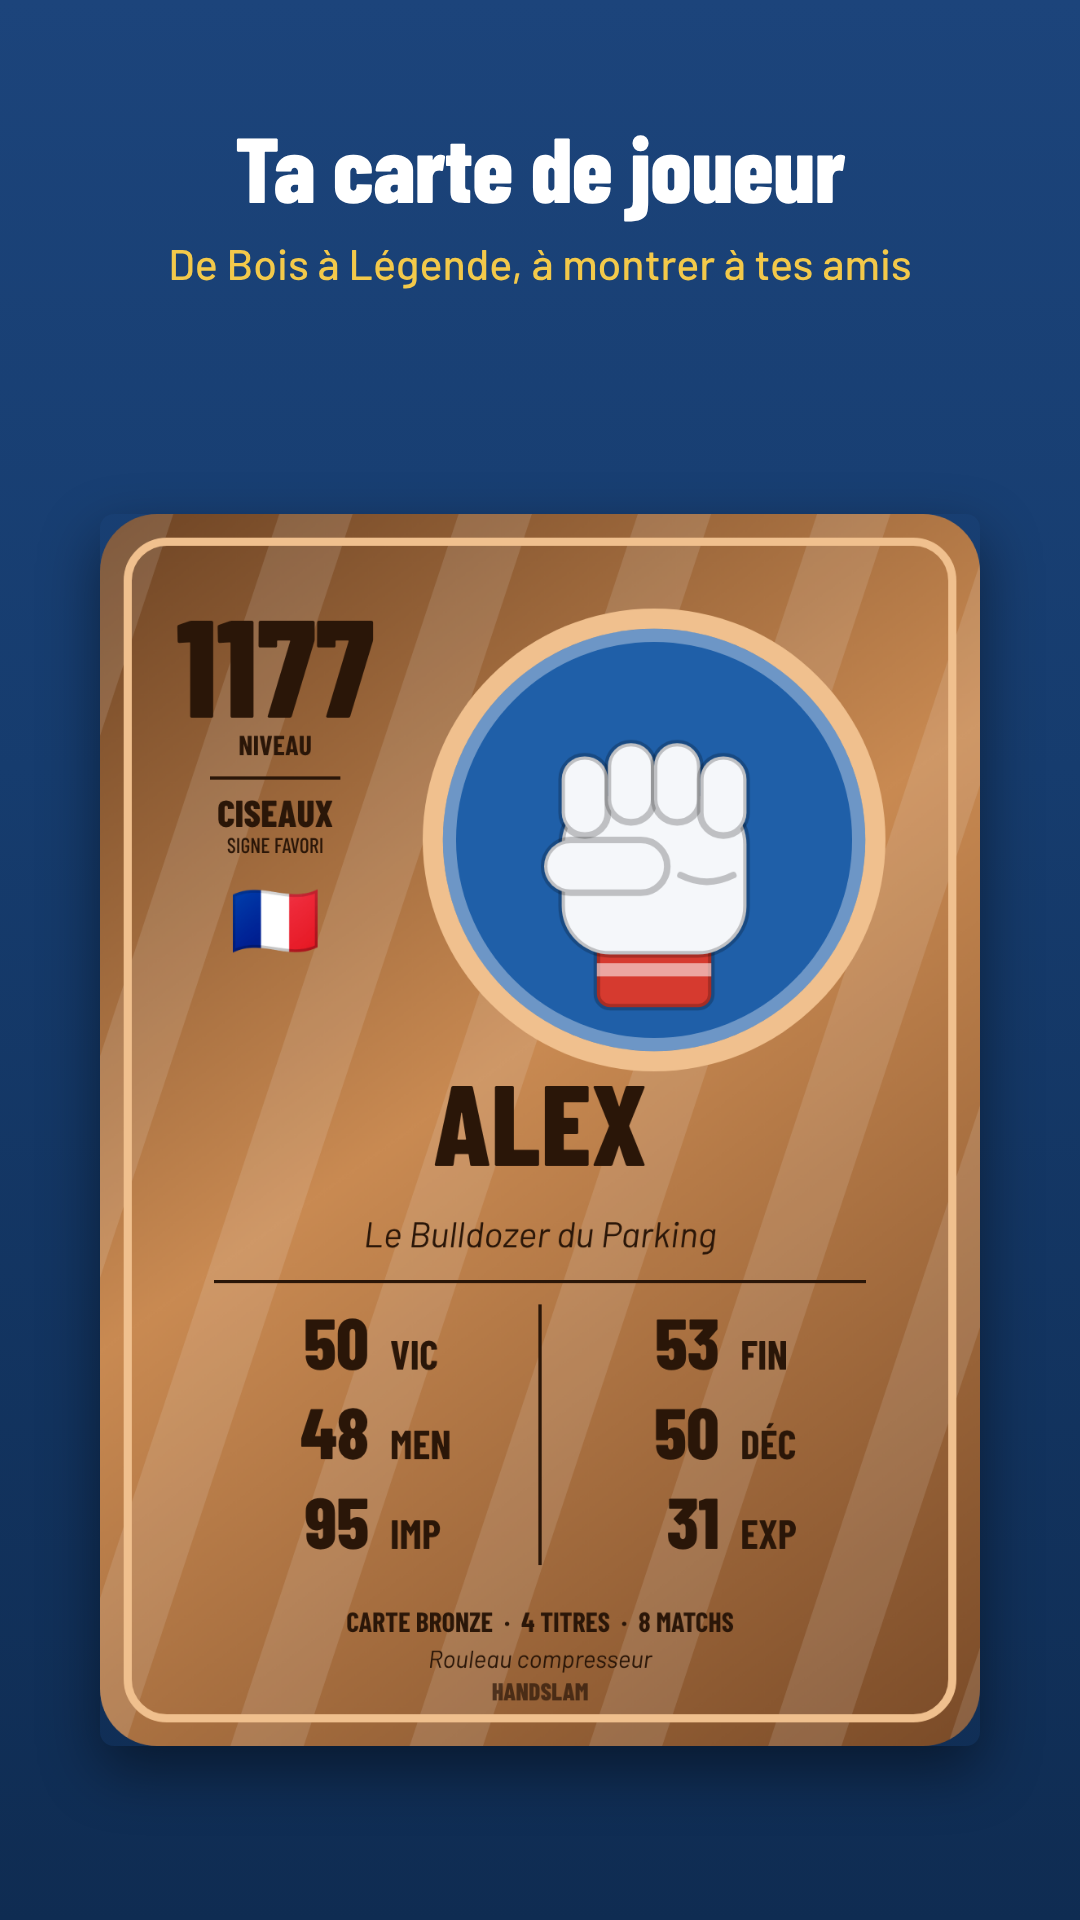
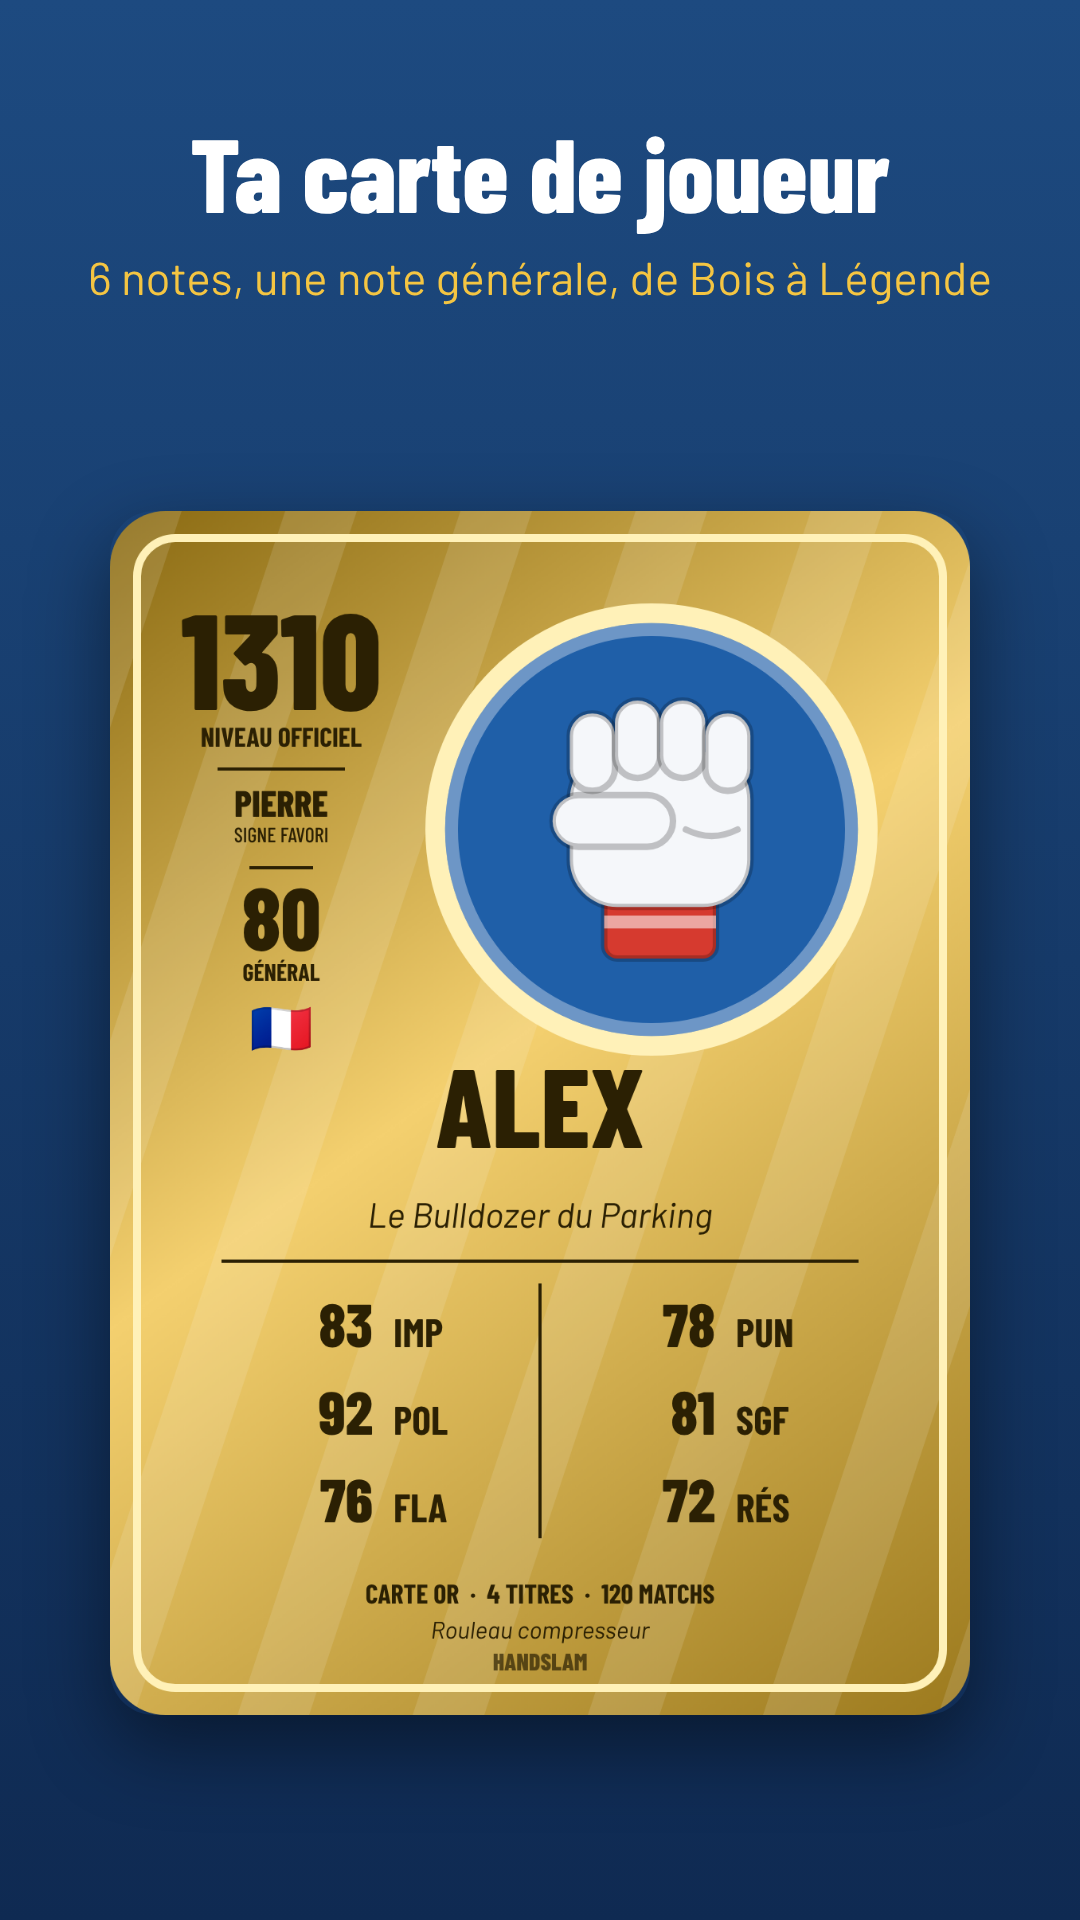
Lancement : l'écran titre avec l'hymne, le cœur qui bat et le club ouverts à tous ; captures du Play Store (la carte d'aujourd'hui, la comparaison des cartes)
Claude-Session: https://claude.ai/code/session_012NAry4d1KhDt2d6f7iFCUH

diff --git a/app/js/nouveautes.js b/app/js/nouveautes.js
@@ -21,6 +21,7 @@
 //     coup de vent, étincelles) (13 novembre, effets.js ; la fissure agrandie, elle, est pour tous).
 //   recordsFaceAFace : « 🏅 Nos records » sous le bilan d'un face-à-face entre joueurs (17 novembre, records-face-a-face.js).
 //   coeur : le cœur qui bat aux balles de match du set décisif, à partir de 10 partout (16 novembre, effets.js).
+// (24 novembre, choix du porteur du projet : hymne, club et coeur ouverts à tous pour le lancement.)
 //   dossard : le Dossard 1, gant jaune du tenant du titre d'un cercle, son annonce dans le fil, le trophée de la coupe (12 novembre, étape SQL 71).
 // (13 novembre, comme validé par le porteur du projet le 11 : le fantôme, le fil du cercle, le championnat avec poules, la carte
 // « Ton avis ? » et la fiche d'un joueur ouverts à tous ; le Dossard 1 reste en test, décision du 12 novembre.)
@@ -32,7 +33,7 @@
 // (17 novembre au soir : les records des face-à-face ouverts à tous, accord du porteur du projet.)
 // (18 novembre au soir : le replay, avec la palette et les temps forts, ouvert à tous, accord du porteur du projet.)
 // (19 novembre : le volet ouvert à tous, pour avoir l'avis des testeurs, accord du porteur du projet.)
-export const OUVERTES = new Set(["serie", "fantome", "fil", "poules", "avis", "fiche", "effets", "dossard", "invitations", "classementCercle", "pageCercle", "records", "routines", "recordsFaceAFace", "replay", "volet", "creneaux"]);
+export const OUVERTES = new Set(["serie", "fantome", "fil", "poules", "avis", "fiche", "effets", "dossard", "invitations", "classementCercle", "pageCercle", "records", "routines", "recordsFaceAFace", "replay", "volet", "creneaux", "hymne", "coeur", "club"]);
 
 export function versionDeTest(loc = typeof location !== "undefined" ? location : null) {
   if (!loc) return false;

diff --git a/tests/nouveautes.test.js b/tests/nouveautes.test.js
@@ -22,7 +22,8 @@ test("la carte « Ton avis ? » : une seule fois, à partir du 5e match, si l'av
 test("13 novembre : le fantôme, le fil, les poules, la carte « Ton avis ? » et la fiche ouverts à tous ; le Dossard 1 reste en test", () => {
   const officielle = { pathname: "/", hostname: "handslam.fr" };
   for (const nom of ["serie", "fantome", "fil", "poules", "avis", "fiche"]) assert.ok(ouvert(nom, officielle), nom);
-  for (const nom of ["hymne", "club", "coeur"]) assert.ok(!ouvert(nom, officielle), nom);
+  // (24 novembre, choix du porteur du projet : l'hymne, le club et le cœur ouverts à tous pour le lancement)
+  for (const nom of ["hymne", "club", "coeur"]) assert.ok(ouvert(nom, officielle), nom);
   assert.ok(ouvert("replay", officielle), "le replay, ouvert à tous le 18 novembre");
 });
 

diff --git a/docs/play-store/fiche.md b/docs/play-store/fiche.md
@@ -69,7 +69,9 @@ Tout ce qu'il faut copier dans la Play Console (Croissance › Présence sur le 
 |---|---|
 | Icône de l'appli (512 × 512) | `icone-512.png` |
 | Image de présentation (1 024 × 500) | `banniere-1024x500.png` |
-| Captures d'écran du téléphone (dans cet ordre) | `capture-1-match.png`, `capture-2-lire.png`, `capture-3-une.png`, `capture-4-carte.png`, `capture-5-carriere.png`, `capture-6-amis.png` |
+| Captures d'écran du téléphone (dans cet ordre) | `capture-1-match.png`, `capture-2-lire.png`, `capture-3-une.png`, `capture-4-carte.png`, `capture-5-carriere.png`, `capture-6-amis.png`, `capture-7-comparer.png` |
+
+**24 novembre** : `capture-4-carte.png` refaite (la carte d'aujourd'hui : 6 notes et la note générale) et `capture-7-comparer.png` ajoutée (la comparaison des cartes) ; dans la Play Console, remplacer la n° 4 et ajouter la n° 7.
 
 Captures refaites le 6 novembre 2026 dans l'appli (version de lancement), en 1 080 × 1 920 : le match, le dossier de l'adversaire, la Une, la carte de joueur, la Carrière solo (à la place des tournois), le menu Jouer. Dans la Play Console, remplacer les 6 anciennes captures par celles-ci (supprimer l'ancienne n° 5, « Des tournois chaque jour »).
 
